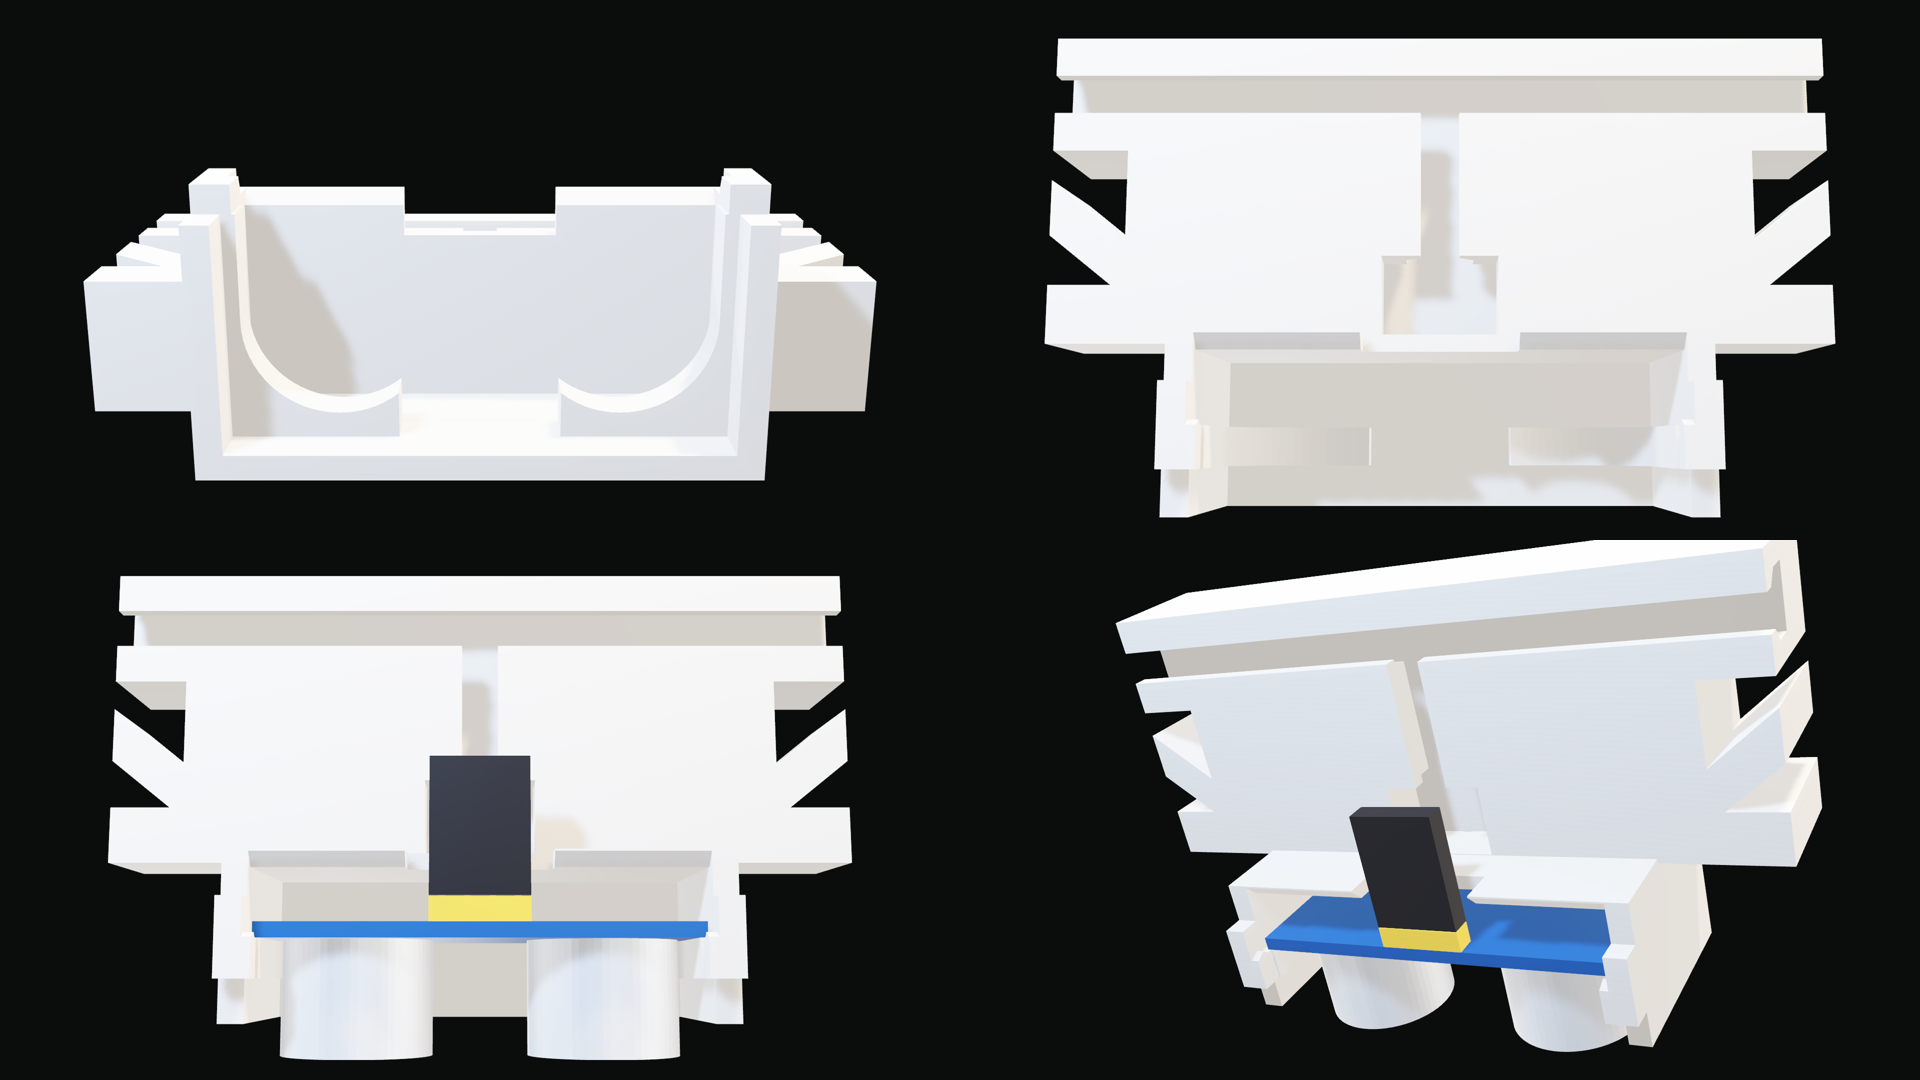
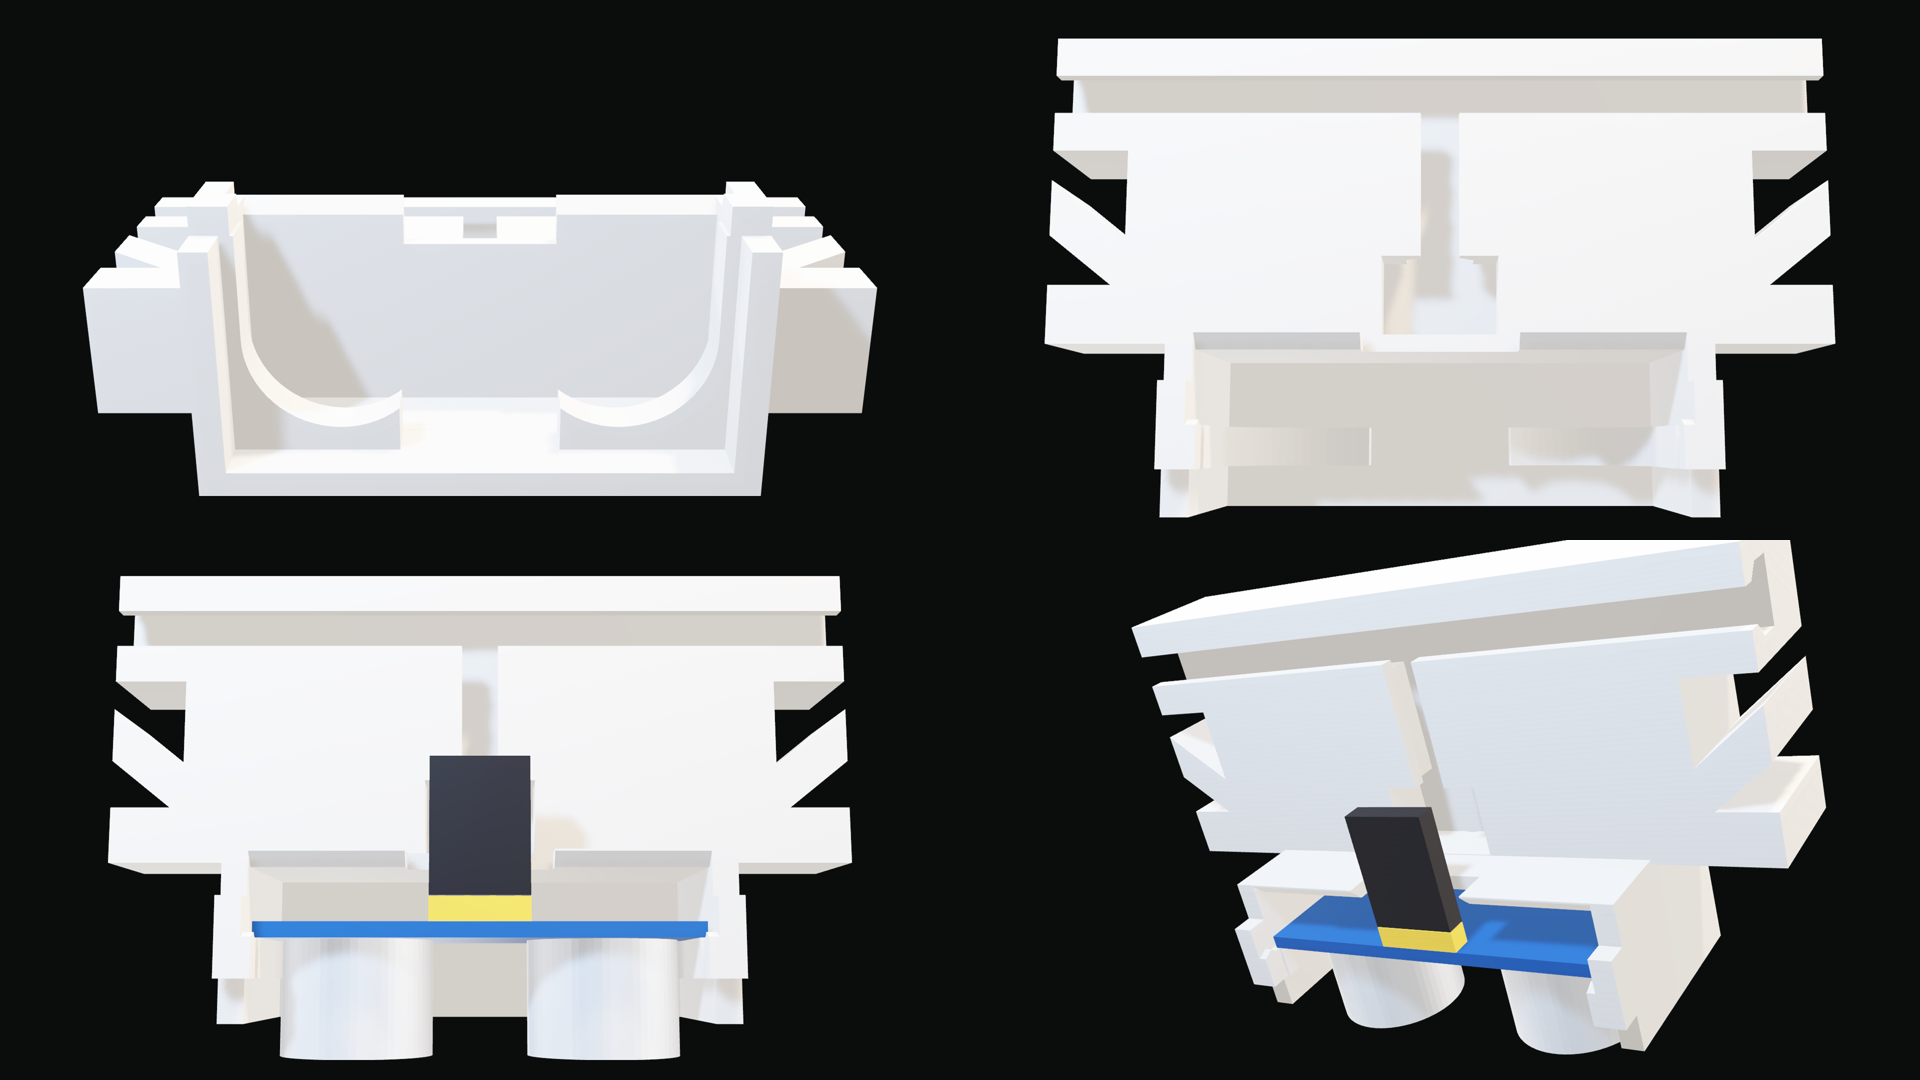
Gantry: close-up previews of the sensor pod and the cabinet tray

diff --git a/stage4/de10lite/gantry/render_parts.py b/stage4/de10lite/gantry/render_parts.py
@@ -1,0 +1,57 @@
+"""Close-up preview scenes: the sensor pod (empty and loaded) and the cabinet tray with its electronics.
+
+    python stage4/de10lite/gantry/render_parts.py      -> out/view_tray.glb, out/view_pod_empty.glb
+"""
+import os
+import sys
+
+HERE = os.path.dirname(os.path.abspath(__file__))
+sys.path.insert(0, HERE)
+import gantry_cad as g  # noqa: E402
+import render_gantry as r  # noqa: E402
+from glb import Material, Model  # noqa: E402
+
+SHELL = Material("shell", "#8E96A0", roughness=0.3, metallic=0.8)    # connector shells
+BLUE_D = Material("vga", "#2E5C9E", roughness=0.5)
+BB_TOP = Material("bb", "#F2F0EA", roughness=0.7)
+HOLES = Material("holes", "#3A3F44", roughness=0.8)
+
+
+def tray_scene():
+    tr = g.tray()
+    fl = -g.H_BOSS + g.TRAY_FLOOR
+    x0, x1, y0, y1 = g.DE10_PCB
+    zp = fl + 10.0
+    pcb = g.box(x0, x1, y0, y1, zp, zp + 1.6)
+    stand = g.union([g.M.cylinder(10, 2.6).translate((x, y, fl)) for x in (x0 + 4, x1 - 4) for y in (y0 + 4, y1 - 4)])
+    gpio = g.box(x1 - 9, x1 - 4, y0 + 20, y0 + 72, zp + 1.6, zp + 10)
+    fpga = g.box((x0 + x1) / 2 - 12, (x0 + x1) / 2 + 12, (y0 + y1) / 2 - 12, (y0 + y1) / 2 + 12, zp + 1.6, zp + 3.0)
+    vga = g.box(x0 + 20, x0 + 51, y1 - 6, y1 + 6.0, zp - 2.0, zp + 12.5)          # D-SUB at the VGA end
+    usb = g.box(x1 - 32, x1 - 20, y0 - 3.0, y0 + 13, zp + 1.6, zp + 12.6)          # USB-B at the other end
+    bx0, bx1, by0, by1 = g.BREAD
+    bb = g.box(bx0 + 2.75, bx1 - 2.75, by0 + 2.75, by1 - 2.75, fl, fl + 8.5)
+    rows = g.union([g.box(bx0 + 8 + 2.54 * i - 0.5, bx0 + 8 + 2.54 * i + 0.5, by0 + 9, by1 - 9, fl + 8.45, fl + 8.6)
+                    for i in range(28)])
+    ux0, ux1, uy0, uy1 = g.UC00C
+    ucx = (ux0 + ux1) / 2
+    uc = g.box(ucx - 10.6, ucx + 10.6, uy0 + 2.6, uy0 + 42.4, fl, fl + 1.6)
+    micro = g.box(ucx - 4, ucx + 4, uy0 + 40.0, uy0 + 43.5, fl + 1.6, fl + 4.6)
+    hdr = g.box(ucx - 7.6, ucx + 7.6, uy0 + 2.6, uy0 + 5.2, fl + 1.6, fl + 10.1)
+    post = g.frame() ^ g.box(g.XC - 10, g.XC + 10, -1, 30, -g.H_BOSS - 1, 40)      # the post's foot, seated
+    m = Model("tray")
+    for mat, part in ((r.PLA, tr), (r.PLA, post), (r.FPGA, pcb), (r.CAN, stand), (r.PLUG, gpio), (r.PLUG, fpga),
+                      (BLUE_D, vga), (SHELL, usb), (BB_TOP, bb), (HOLES, rows), (r.UART, uc), (SHELL, micro), (r.PLUG, hdr)):
+        m.add(mat, r.flat(r.zup_to_gltf(part)))
+    return m.recentre()
+
+
+def pod_empty():
+    m = Model("pod_empty")
+    m.add(r.PLA, r.flat(r.zup_to_gltf(g.frame() ^ g.box(-40, 40, -5, 60, 170, 240))))
+    return m.recentre()
+
+
+if __name__ == "__main__":
+    out = os.path.join(HERE, "out")
+    for name, fn in (("view_tray", tray_scene), ("view_pod_empty", pod_empty)):
+        print(name, fn().save(os.path.join(out, name + ".glb")))
